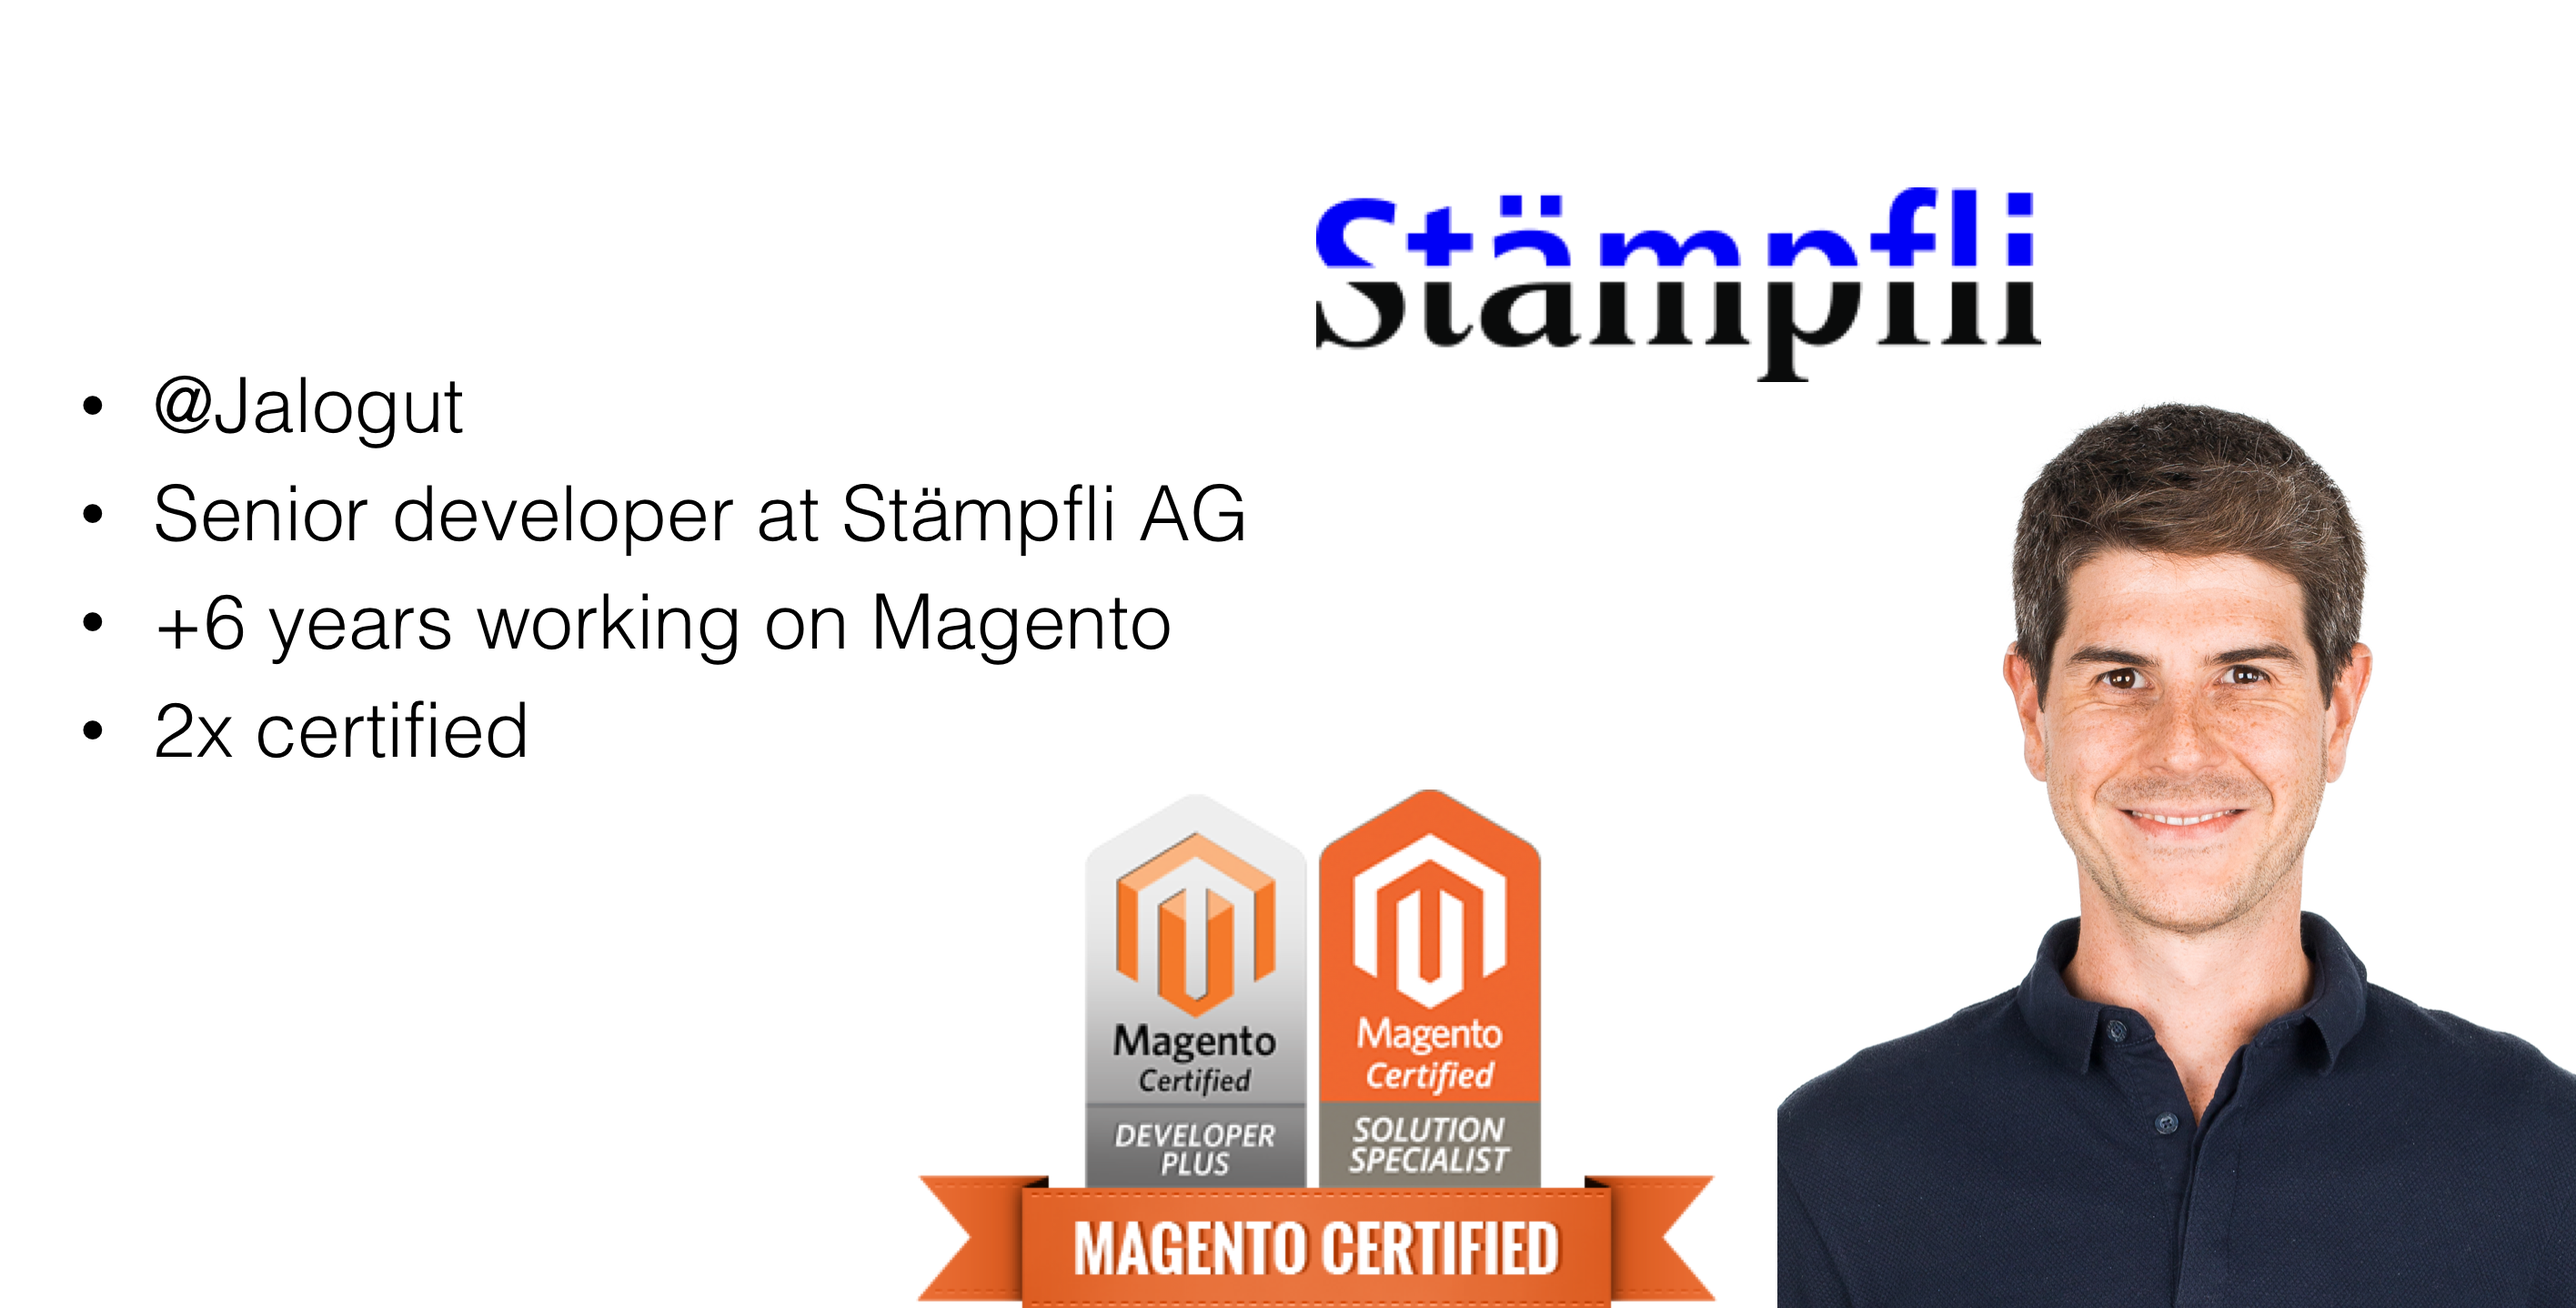
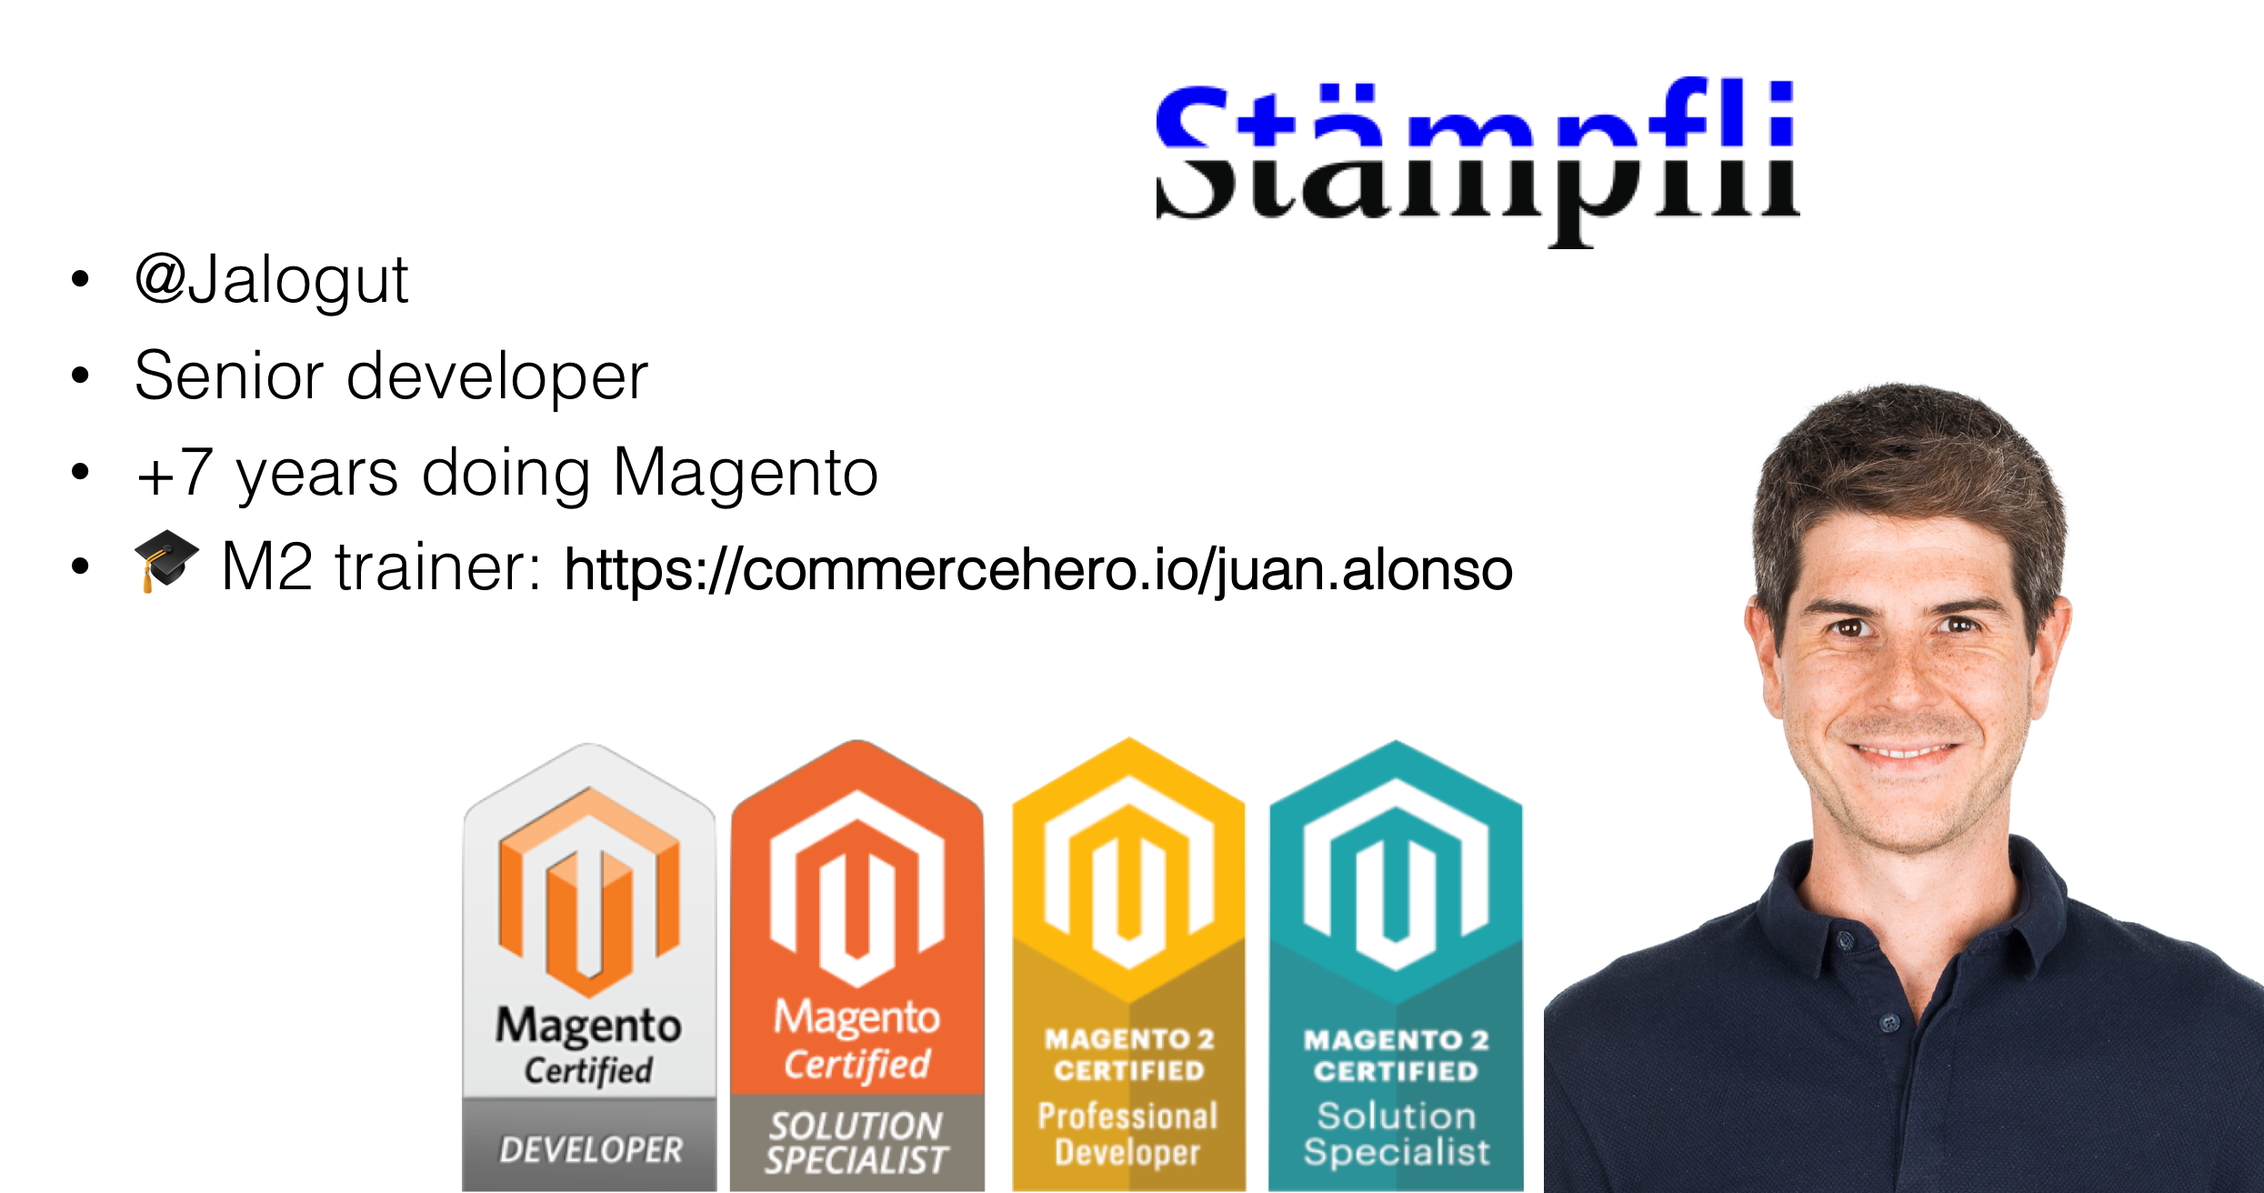
Add intro section and update about-me

diff --git a/PITCHME.md b/PITCHME.md
@@ -1,27 +1,15 @@
 @title[Introduction]
-## Fully automated 
-## Zero downtime
-##### <span style="font-family:Helvetica Neue; font-weight:bold">deployments in <span style="color:#f46f25">Magento 2.2</span></span>
 
----?image=assets/img/about-me.png
-@title[About me]
+##### <span style="font-family:Helvetica Neue; font-weight:bold; color:#f46f25">Magento 2</span>
 
----
-@title[Agenda 0]
-## Agenda
-
-* Project Setup
-* Wrong deployment
-* Right deployment
-* Zero Downtime
-* Build Pipeline
-* CI/CD
+## Zero Downtime 
+## Deployments for Everyone
 
 ---
 @title[Agenda 1]
 ## Agenda
 
-* **Project Setup**
+* **Intro**
 * <span style="opacity: 0.2;">Wrong deployment</span>
 * <span style="opacity: 0.2;">Right deployment</span>
 * <span style="opacity: 0.2;">Zero Downtime</span>
@@ -31,38 +19,46 @@
 @fa[arrow-down]
 
 +++
-@title[Project Setup]
-
-<ul>
-<li>git (or another VCS)</li>
-<li class="fragment">composer</li>
-<li class="fragment">composer.lock in VCS</li>
-<li class="fragment">etc/config.php in VCS</li>
-<li class="fragment">~~etc/env.php~~  **NOT** in VCS</li>
-<li class="fragment">~~vendor~~ **NOT** in VCS</li>
-</ul>
+@title[Scared]
+#### Scary moment
+![Comic scared](assets/img/rage_comic/scared.jpg)
 
 +++
-@title[Composer Setup Tutorial]
-#### Tutorial
+@title[M1 Commands]
+#### M1 Commands
 
 <br>
 
-Proper Magento 2 Composer Setup: [https://blog.hauri.me/](https://blog.hauri.me/proper-magento2-composer-setup.html)
+- git pull
+- [composer install]
+- setup:upgrade
+- cache:clean
 
 +++
-@title[Magento 2 Project Example]
-#### Example
+@title[Happy]
+#### Happy
+![Comic happy](assets/img/rage_comic/happy.jpg)
 
-<br>
++++?image=assets/img/keep-calm-deploys.png
+@title[M2 Commands]
 
-[https://github.com/jalogut/magento-2.2-demo](https://github.com/jalogut/magento-2.2-demo)
++++
+@title[It begins]
+![Comic it begins](assets/img/rage_comic/it-begins.jpg)
+
++++
+@title[Something wrong]
+![Comic crazy](assets/img/rage_comic/crazy.jpg)
+
++++
+@title[Kill Magento]
+![Comic kill](assets/img/rage_comic/kill-magento.jpg)
 
 ---
 @title[Agenda 2]
 ## Agenda
 
-* <span style="opacity: 0.2;">Project Setup</span>
+* <span style="opacity: 0.2;">Intro</span>
 * **Wrong deployment**
 * <span style="opacity: 0.2;">Right deployment</span>
 * <span style="opacity: 0.2;">Zero Downtime</span>
@@ -72,14 +68,7 @@ Proper Magento 2 Composer Setup: [https://blog.hauri.me/](https://blog.hauri.me/
 @fa[arrow-down]
 
 +++
-#### Manually
-
-<br>
-
-[Demo]
-
-+++
-#### Cons 👎
+#### Manually 👎
 
 <br>
 
@@ -88,14 +77,7 @@ Proper Magento 2 Composer Setup: [https://blog.hauri.me/](https://blog.hauri.me/
 - High Downtime: 15min - 30min |
 
 +++
-#### Simple Automation
-
-<br>
-
-[Demo]
-
-+++
-#### Cons 👎
+#### Simple Automation not enough 👎
 
 <br>
 
@@ -106,7 +88,7 @@ Proper Magento 2 Composer Setup: [https://blog.hauri.me/](https://blog.hauri.me/
 @title[Agenda 3]
 ## Agenda
 
-* <span style="opacity: 0.2;">Project Setup</span>
+* <span style="opacity: 0.2;">Intro</span>
 * <span style="opacity: 0.2;">Wrong deployment</span>
 * **Right deployment**
 * <span style="opacity: 0.2;">Zero Downtime</span>
@@ -114,6 +96,19 @@ Proper Magento 2 Composer Setup: [https://blog.hauri.me/](https://blog.hauri.me/
 * <span style="opacity: 0.2;">CI/CD</span>
 
 @fa[arrow-down]
+
++++
+@title[Project Setup]
+#### Project Setup
+
+<ul>
+<li class="fragment">composer.lock in VCS</li>
+<li class="fragment">etc/config.php in VCS</li>
+<li class="fragment">~~etc/env.php~~ **NOT** in VCS</li>
+<li class="fragment">~~vendor~~ **NOT** in VCS</li>
+</ul>
+
+Tutorial: [https://dev.to/jalogut -> Proper Magento 2 Composer Setup](https://dev.to/jalogut/proper-magento-2-composer-setup-40dm)
 
 +++
 @title[Current live]
@@ -183,7 +178,7 @@ Proper Magento 2 Composer Setup: [https://blog.hauri.me/](https://blog.hauri.me/
 @title[Agenda 4]
 ## Agenda
 
-* <span style="opacity: 0.2;">Project Setup</span>
+* <span style="opacity: 0.2;">Intro</span>
 * <span style="opacity: 0.2;">Wrong deployment</span>
 * <span style="opacity: 0.2;">Right deployment</span>
 * **Zero Downtime**
@@ -233,7 +228,7 @@ bin/magento config:set workaround/check/config_status 1
 @title[Agenda 5]
 ## Agenda
 
-* <span style="opacity: 0.2;">Project Setup</span>
+* <span style="opacity: 0.2;">Intro</span>
 * <span style="opacity: 0.2;">Wrong deployment</span>
 * <span style="opacity: 0.2;">Right deployment</span>
 * <span style="opacity: 0.2;">Zero Downtime</span>
@@ -309,7 +304,7 @@ magento2-config-dump-skip-system.xml: [https://gist.github.com/jalogut/](https:/
 @title[Agenda 6]
 ## Agenda
 
-* <span style="opacity: 0.2;">Project Setup</span>
+* <span style="opacity: 0.2;">Intro</span>
 * <span style="opacity: 0.2;">Wrong deployment</span>
 * <span style="opacity: 0.2;">Right deployment</span>
 * <span style="opacity: 0.2;">Zero Downtime</span>
@@ -550,6 +545,9 @@ Usage Example: [jalogut/magento-22-mg2-builder](https://github.com/jalogut/magen
 
 - Project Example: <span style="font-size:0.6em;">[https://github.com/jalogut/magento-2.2-demo](https://github.com/jalogut/magento-2.2-demo)</span>
 
+
+---?image=assets/img/about-me.png
+@title[About me]
 
 ---
 @title[thank you]
